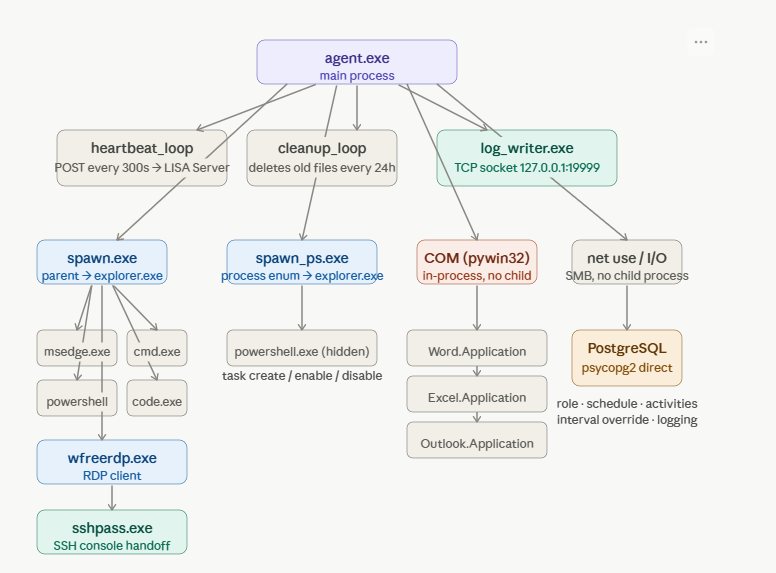
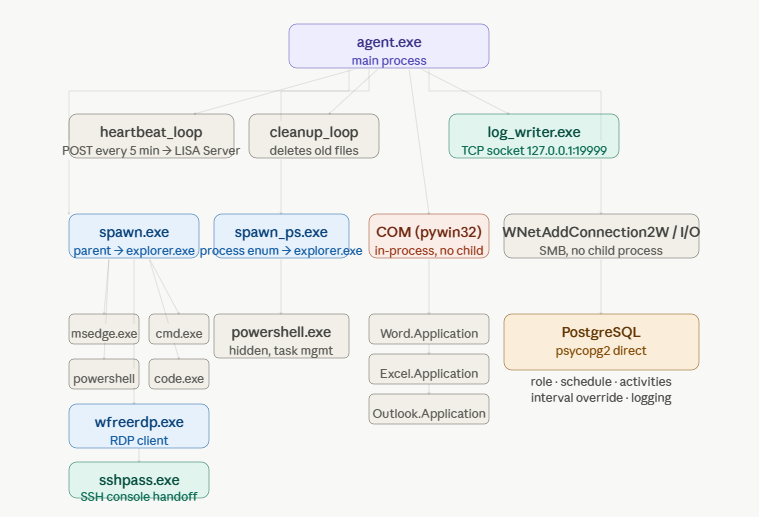
Updated the Agent Architecture Diagram

diff --git a/documentation/README.md b/documentation/README.md
@@ -252,7 +252,7 @@ Both binaries are written in C and compiled with MinGW (`x86_64-w64-mingw32-gcc`
 
 ---
 
-## 6. Parent Process Hiding Strategy
+## 6. Parent Process Hiding Strategy verified using Sysmon and PS
 
 The agent uses a layered strategy to ensure it never appears as the parent of any visible process:
 
@@ -264,7 +264,7 @@ The agent uses a layered strategy to ensure it never appears as the parent of an
 | VS Code | spawn.exe | explorer.exe |
 | log_writer.exe | spawn.exe | explorer.exe |
 | PowerShell (task mgmt) | spawn_ps.exe | explorer.exe |
-| SMB (net use, file I/O) | direct (no process) | N/A |
+| SMB (Windows WNetAddConnection2W) | direct (no process) | N/A |
 | wfreerdp.exe (RDP) | spawn.exe | explorer.exe |
 
 